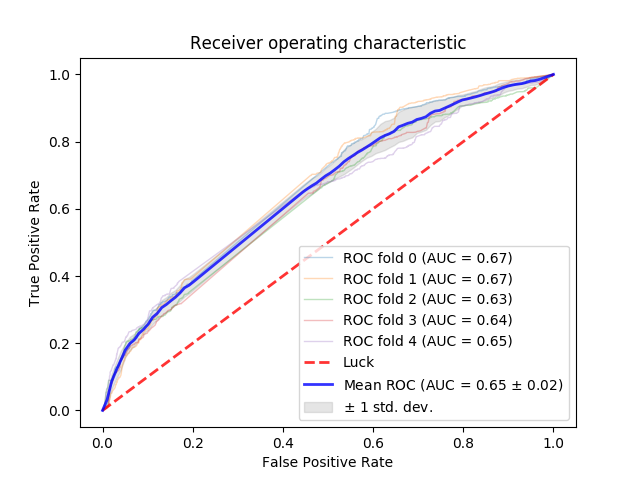
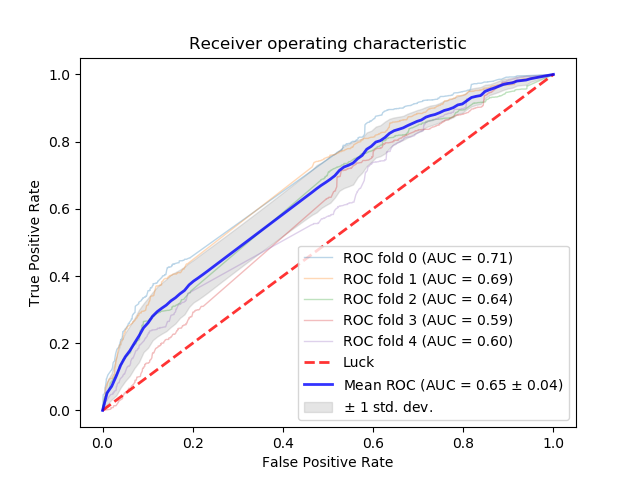
correct cut-off of 2.3

diff --git a/generate_phenotype.py b/generate_phenotype.py
@@ -6,8 +6,8 @@ from constants import TRAINING_SCORE_COLUMN, SIMILARITY_SCORE_COLUMN
 
 PHENOTYPE_COLUMN = "Phenotype"
 
-SCORE_THRESHOLD = 0.7
-SIMILARITY_THRESHOLD = 0.003
+SCORE_THRESHOLD = 2.3
+SIMILARITY_THRESHOLD = 0
 
 
 def score_training_data(training_data):
